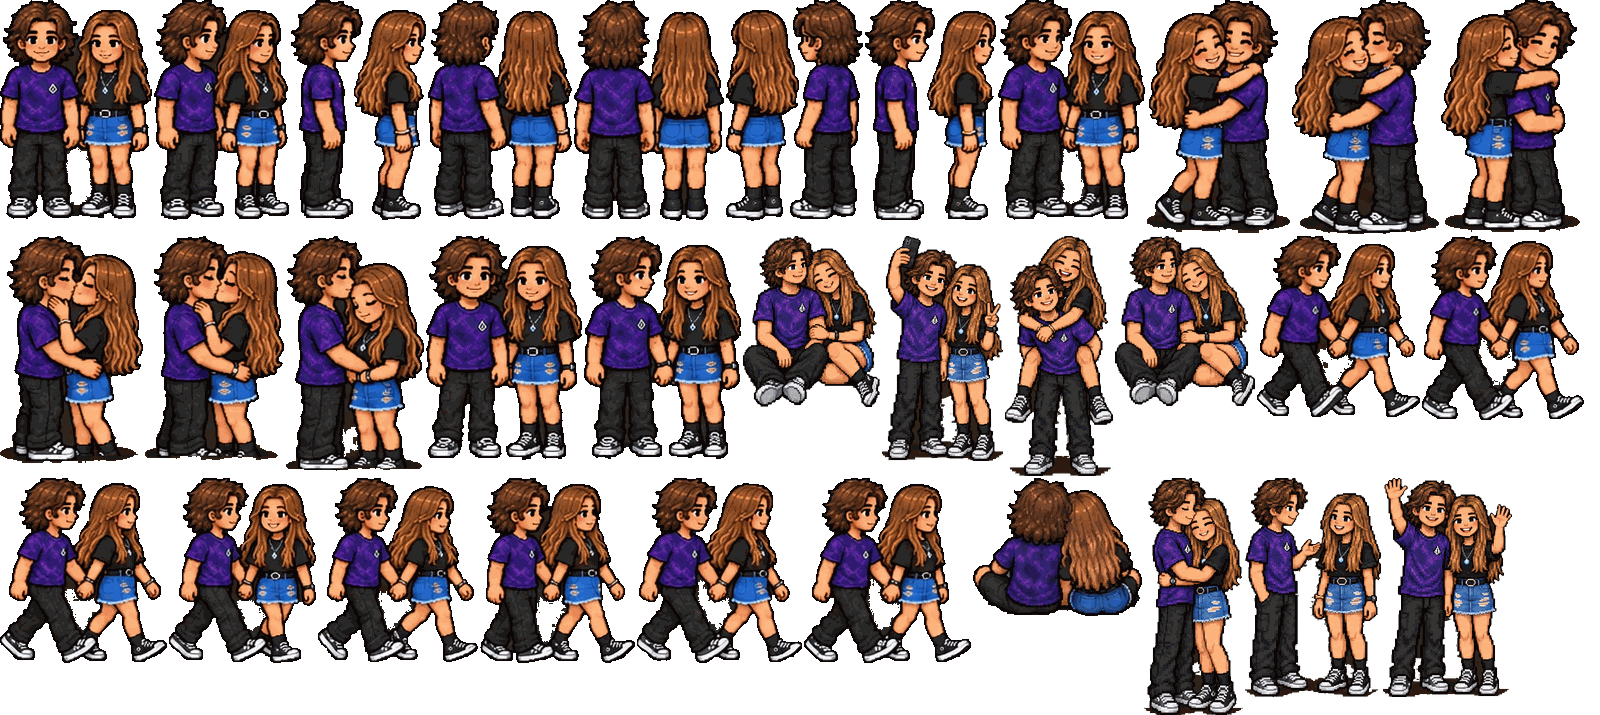
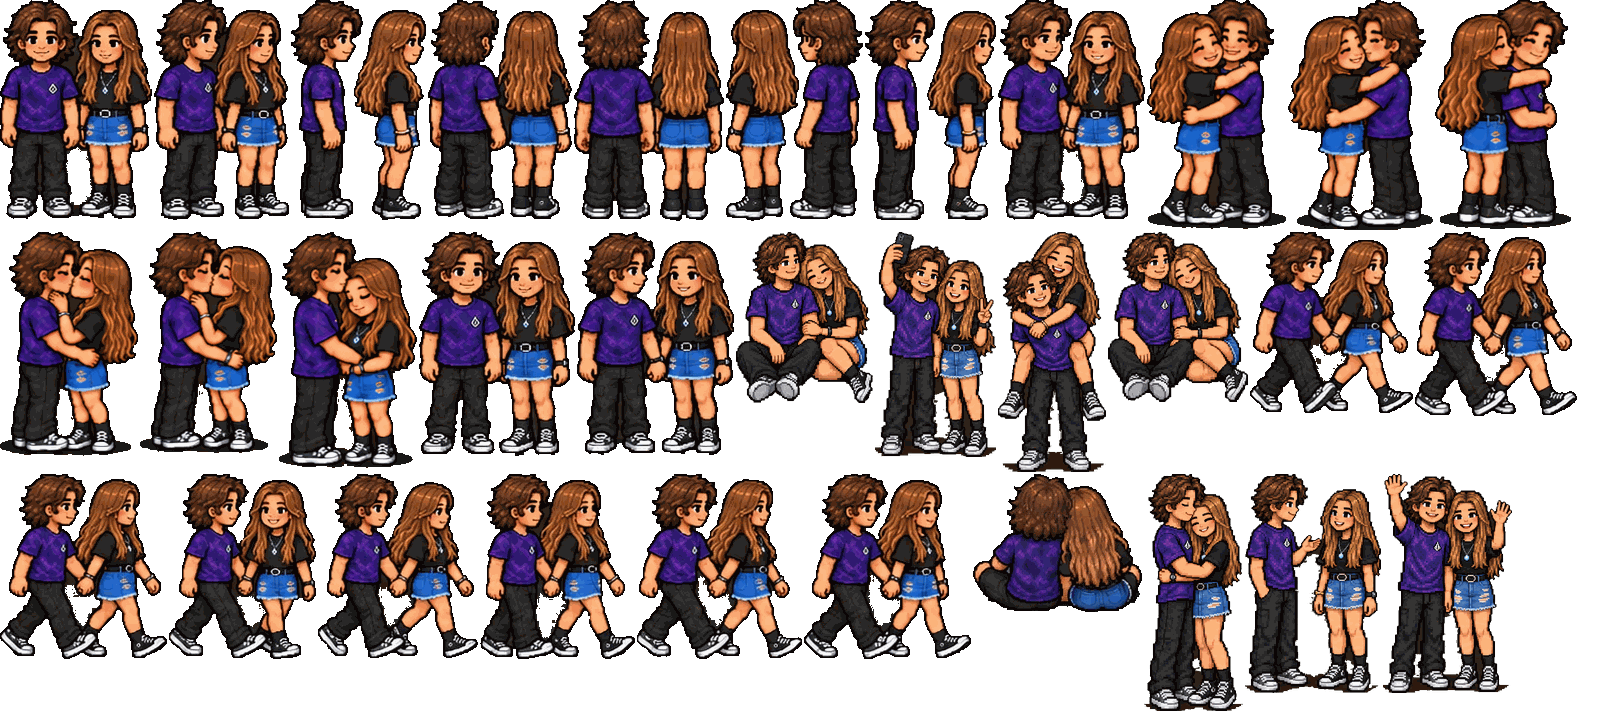
Take the kiss and hug poses from the full sheet so their legs show
Claude-Session: https://claude.ai/code/session_01CYk3xYTLtQ9wMMS1b1SGUS

diff --git a/game.js b/game.js
@@ -2312,30 +2312,30 @@ const COUPLE = {
   backLeft: [726, 0, 137, 221],
   left: [865, 0, 131, 220],
   frontLeft: [998, 0, 147, 220],
-  hug: [1147, 0, 143, 233],
-  hugSide: [1292, 0, 147, 234],
-  hugBack: [1441, 0, 139, 232],
-  kiss: [0, 236, 143, 227],
-  kissSide: [145, 236, 139, 224],
-  foreheadKiss: [286, 236, 138, 235],
-  sideBySide: [426, 236, 156, 224],
-  holdHands: [584, 236, 157, 223],
-  cuddleSit: [743, 236, 137, 171],
-  selfie: [882, 236, 121, 225],
-  piggyback: [1005, 236, 108, 240],
-  lean: [1115, 236, 140, 170],
-  walk0: [1257, 236, 163, 181],
-  walk1: [1422, 236, 162, 184],
-  walk2: [0, 478, 167, 185],
-  walk3: [169, 478, 147, 185],
-  walk4: [318, 478, 160, 184],
-  walk5: [480, 478, 155, 185],
-  walk6: [637, 478, 165, 185],
-  walk7: [804, 478, 167, 185],
-  sitBack: [973, 478, 169, 138],
-  cuddleStand: [1144, 478, 99, 237],
-  talk: [1245, 478, 136, 219],
-  wave: [1383, 478, 129, 219],
+  hug: [1147, 0, 139, 229],
+  hugSide: [1288, 0, 145, 230],
+  hugBack: [1435, 0, 136, 229],
+  kiss: [0, 232, 138, 224],
+  kissSide: [140, 232, 137, 221],
+  foreheadKiss: [279, 232, 138, 236],
+  sideBySide: [419, 232, 156, 224],
+  holdHands: [577, 232, 157, 223],
+  cuddleSit: [736, 232, 137, 171],
+  selfie: [875, 232, 121, 225],
+  piggyback: [998, 232, 108, 240],
+  lean: [1108, 232, 140, 170],
+  walk0: [1250, 232, 163, 181],
+  walk1: [1415, 232, 162, 184],
+  walk2: [0, 474, 167, 185],
+  walk3: [169, 474, 147, 185],
+  walk4: [318, 474, 160, 184],
+  walk5: [480, 474, 155, 185],
+  walk6: [637, 474, 165, 185],
+  walk7: [804, 474, 167, 185],
+  sitBack: [973, 474, 169, 138],
+  cuddleStand: [1144, 474, 99, 237],
+  talk: [1245, 474, 136, 219],
+  wave: [1383, 474, 129, 219],
 };
 const COUPLE_K = 0.82; // sheet px to map px, so they match the single sprites
 const COUPLE_SIZE = {}; // per-frame size tweaks, if a pose comes out too big or small
